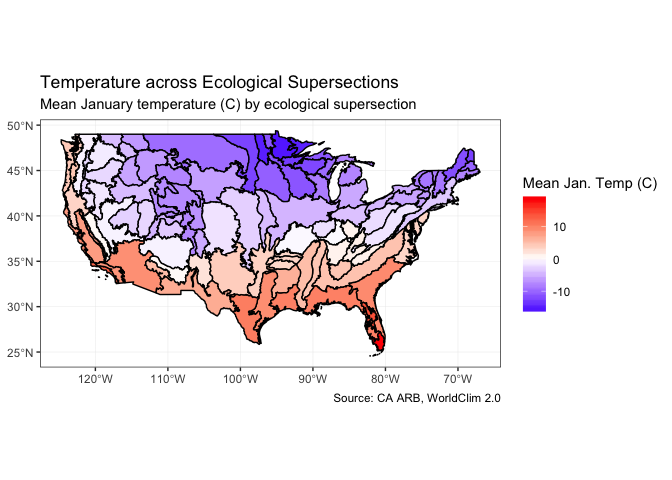
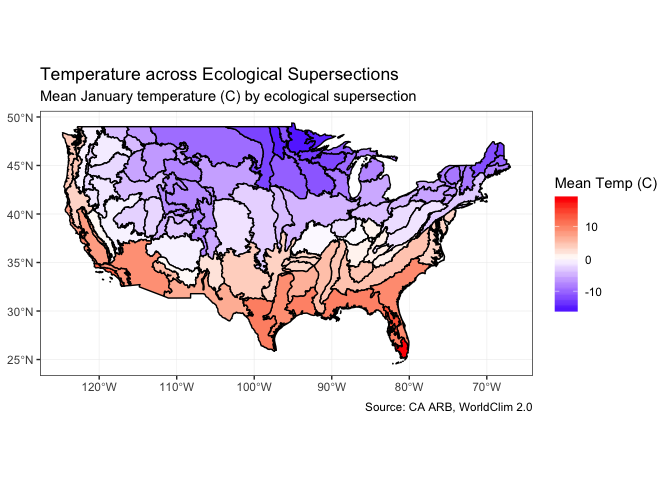
update arrangement, shorten scale title

diff --git a/_posts/2018-09-23-Getting_started_with_sf.md b/_posts/2018-09-23-Getting_started_with_sf.md
@@ -213,19 +213,15 @@ janTemp <- raster::extract(janTemp,
                            na.rm = TRUE)
 
 supersectionShape2$janTemp <- janTemp
-```
 
-Mapping mean temp in January confirms what we already knew: Minnesota is cold!
-
-``` r
-ggplot() +
+janPlot <- ggplot() +
   geom_sf(data = supersectionShape2,
           aes(fill = janTemp),
           size = 0.5,
           color = "black",
           alpha = 1) +
   scale_fill_gradient2(high = "red", low = "blue",
-                       name = "Mean Jan. Temp (C)") +
+                       name = "Mean Temp (C)") +
   theme_bw() +
   coord_sf() +
   labs(title = "Temperature across Ecological Supersections",
@@ -233,4 +229,4 @@ ggplot() +
        caption = "Source: CA ARB, WorldClim 2.0")
 ```
 
-![](/assets/images/2018-09-23-Getting_started_with_sf_meanJanTemp-1.png)
+Mapping mean temp in January confirms what we already knew: Minnesota is cold!
